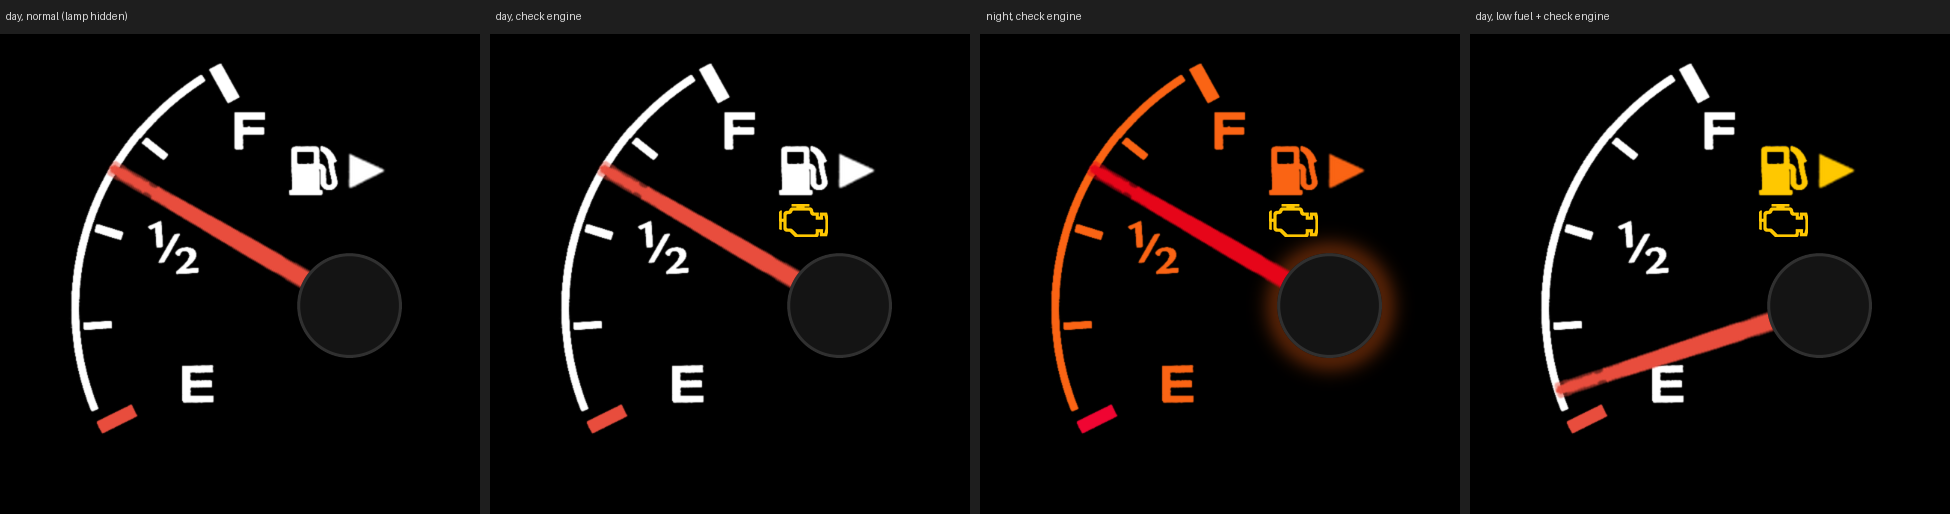
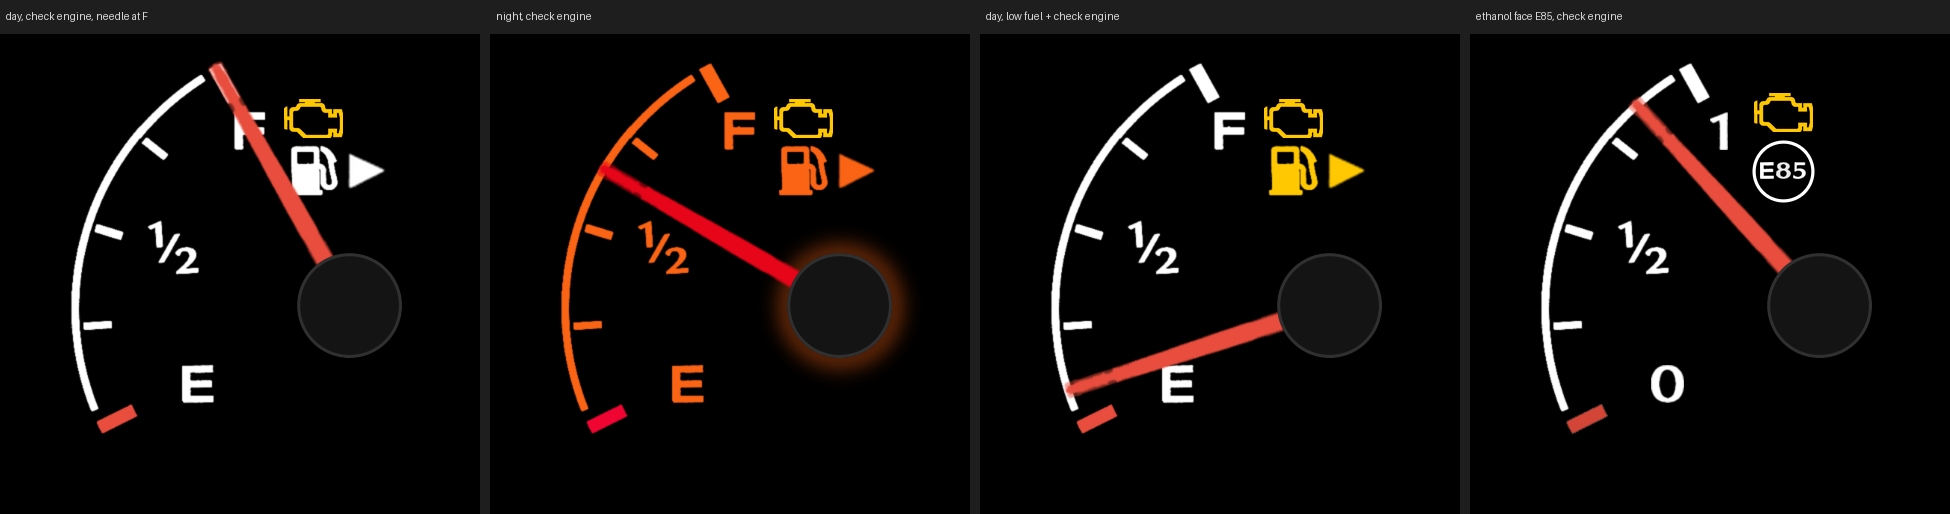
CEL lamp above the pump at 120 % (fuel + ethanol faces); outlined error flash; buzzer confirmed tone-driven

diff --git a/tools/alt-faces/cel_icon.py b/tools/alt-faces/cel_icon.py
@@ -1,7 +1,8 @@
 """Check-engine lamp for the fuel gauge (owner 2026-10-18, placeholder art until the owner supplies the final symbol).
 Symbol: ISO 2575 F.01 'Engine' (application of ISO 7000-0640), traced from ISO 2575:2010 p.28 at 1200 dpi
-(art/icons/engine_iso7000-0640_src.png). Placed directly under the fuel-pump icon, same width as the pump, same 8 px
-gap as the pump-to-arrow gap. Hidden unless the Haltech CEL flag is on (0x3E4 byte 7 bit 7); lit in the low-fuel yellow.
+(art/icons/engine_iso7000-0640_src.png). Rev 2026-10-18b (owner): moved ABOVE the pump icon
+(below it the needle swept over it near F) and scaled 120 % (59 px wide = 1.2 x pump width); 8 px gap as before. On the
+ethanol face it sits 8 px above the ethanol ring (the ring top is 6 px higher than the pump top). Hidden unless the Haltech CEL flag is on (0x3E4 byte 7 bit 7); lit in the low-fuel yellow.
 Outputs art/faces/cel_icon_A8.png (480x480 alpha layer), art/faces/cel_icon.json, art/preview/fuel_cel_preview.png."""
 import sys, json, numpy as np
 from PIL import Image, ImageDraw
@@ -11,14 +12,31 @@ x0,y0,x1,y1=I['pump_bbox_px']; gap=round(I['gap_px'])
 from PIL import ImageFilter
 src=Image.open('art/icons/engine_iso7000-0640_src.png').convert('L')
 src=src.filter(ImageFilter.MaxFilter(25))   # stroke ~40 -> ~64 src px, about 3 px at 49 px wide (closer to the pump glyph weight)
-w=x1-x0; h=round(w*src.height/src.width)
+w=round(1.2*(x1-x0)); h=round(w*src.height/src.width)
 icon=src.resize((w*4,h*4),Image.LANCZOS).resize((w,h),Image.LANCZOS)
-cx=(x0+x1)/2; ix=round(cx-w/2); iy=y1+gap
+cx=(x0+x1)/2; ix=round(cx-w/2); iy=y0-gap-h
+E=json.load(open('art/faces/fuel_ethanol.json')); ring_top=E['ring_center_px'][1]-E['ring_radius_px']; iy_e=ring_top-gap-h
 L=Image.new('L',(480,480),0); L.paste(icon,(ix,iy)); L.save('art/faces/cel_icon_A8.png')
-json.dump(dict(bbox_px=[ix,iy,ix+w,iy+h],symbol='ISO 2575 F.01 Engine (ISO 7000-0640), placeholder until owner art',
+LE=Image.new('L',(480,480),0); LE.paste(icon,(ix,iy_e)); LE.save('art/faces/cel_icon_ethanol_A8.png')
+# checks: inside the visible hole, and clear of the needle over its whole sweep
+from shapely.geometry import Polygon, box as sbox, LineString
+FJ=json.load(open('art/faces/faces.json'))['gauges']; g=FJ['fuel']; S=json.load(open('hardware/overlay/overlay_mm.json'))['shapes']
+hole=Polygon([((x-g['image_center_mm'][0])*g['px_per_mm']+240,240-(y-g['image_center_mm'][1])*g['px_per_mm']) for x,y in S['fuel']])
+import math
+piv=g['pivot_px']; tipR=math.hypot(224.5-piv[0],49.5-piv[1])
+def needle_clear(b):
+    best=1e9
+    for a in np.linspace(E['needle_angle_E_deg'],E['needle_angle_F_deg'],400):
+        r=math.radians(a); seg=LineString([piv,(piv[0]+tipR*math.sin(r),piv[1]-tipR*math.cos(r))]); best=min(best,seg.distance(b))
+    return best
+chk={}
+for nm,yy in (('fuel',iy),('ethanol',iy_e)):
+    b=sbox(ix,yy,ix+w,yy+h); chk[nm]=dict(bbox_px=[ix,yy,ix+w,yy+h],inside_hole=bool(hole.contains(b)),hole_margin_px=round(hole.exterior.distance(b),1),needle_centerline_clearance_px=round(needle_clear(b),1))
+print(chk)
+json.dump(dict(bbox_px=[ix,iy,ix+w,iy+h],bbox_px_ethanol=[ix,iy_e,ix+w,iy_e+h],scale_vs_pump_width=1.2,position='above the pump (fuel face) / above the ethanol ring, 8 px gap',checks=chk,layer_ethanol='cel_icon_ethanol_A8.png',symbol='ISO 2575 F.01 Engine (ISO 7000-0640), placeholder until owner art',
   color_rgb=list(map(int,Y)),visible='only while Haltech 0x3E4 byte 7 bit 7 (Check Engine Light) = 1; hub relays it in 0x6A3 byte 2 bit 1',
-  faces='fuel level face; same position on the ethanol face (proposed)',layer='cel_icon_A8.png',
-  note='needle passes over the icon between about 7/8 and F; needle is drawn on top'),open('art/faces/cel_icon.json','w'),indent=1)
+  faces='fuel level face and ethanol face',layer='cel_icon_A8.png',
+  note='rev b: above the pump, clear of the needle sweep'),open('art/faces/cel_icon.json','w'),indent=1)
 pump=np.asarray(Image.open('art/faces/fuel_icon_A8.png')).astype(float)/255
 cel=np.asarray(L).astype(float)/255
 base=np.asarray(Image.open('art/faces/fuel_base_480.png').convert('RGB'))
@@ -36,7 +54,14 @@ def render(night,low,celon,ang):
     cv=cv.rotate(-ang,resample=Image.BICUBIC,center=(W/2,W/2)); cx_,cy_=g['pivot_px']; im.alpha_composite(cv,(int(cx_-W/2),int(cy_-W/2)))
     hub=Image.open(f"art/needles/{n['hub_png']}").convert('RGBA'); im.alpha_composite(hub,(int(cx_-hub.width/2),int(cy_-hub.height/2)))
     return im.convert('RGB')
-cases=[('day, normal (lamp hidden)',False,False,False,-60),('day, check engine',False,False,True,-60),('night, check engine',True,False,True,-60),('day, low fuel + check engine',False,True,True,-108)]
+cases=[('day, check engine, needle at F',False,False,True,E['needle_angle_F_deg']),('night, check engine',True,False,True,-60),('day, low fuel + check engine',False,True,True,-108)]
+import importlib.util, io, contextlib
+spec=importlib.util.spec_from_file_location('eth','tools/alt-faces/ethanol_face.py'); eth=importlib.util.module_from_spec(spec)
+with contextlib.redirect_stdout(io.StringIO()): spec.loader.exec_module(eth)
+def render_eth(night):
+    im=np.asarray(eth.render(85,night)).astype(float); ce=np.asarray(LE).astype(float)/255
+    return Image.fromarray(np.clip(im*(1-ce[...,None])+ce[...,None]*Y,0,255).astype(np.uint8))
 out=Image.new('RGB',(4*490-10,480+34),(30,30,30)); d=ImageDraw.Draw(out)
 for i,(t,nt,lo,ce,a) in enumerate(cases): out.paste(render(nt,lo,ce,a),(i*490,34)); d.text((i*490+6,10),t,fill=(220,220,220))
+out.paste(render_eth(False),(3*490,34)); d.text((3*490+6,10),'ethanol face E85, check engine',fill=(220,220,220))
 out.save('art/preview/fuel_cel_preview.png'); print('icon bbox',ix,iy,ix+w,iy+h)

diff --git a/tools/alt-faces/alert_flash_mock.py b/tools/alt-faces/alert_flash_mock.py
@@ -1,21 +1,34 @@
-"""Mock of the error flash (owner 2026-10-18): the gauge background turns red during the 'on' half of each 3 Hz
-flash, day or night. Approximation for review: dark background pixels (tach, night data face) or white background
-pixels (day data face) are replaced with ALERT_FLASH red; printing, needles and values are left as they are."""
-import numpy as np
+"""Mock of the error flash (owner 2026-10-18; rev b: needles and ticks outlined). During the 'on' half of each 3 Hz
+flash the gauge background turns ALERT_FLASH red, day or night, EXCEPT a black keep-out outline OUTLINE_PX wide around
+every printed element (ticks, numerals, legends, readouts) and around the needle and hub, so red ticks, red needles
+and night-orange print stay readable against the red.
+Firmware equivalent: each gauge keeps a pre-rendered 'flash' copy of its static face (red background with the black
+keep-out already baked in) and swaps it in on the red phase; the needle sprite is drawn with a black outline
+(OUTLINE_PX) on that phase. Approximation here: foreground = any pixel brighter than the dark background (or darker
+than the white day data-face background), dilated by OUTLINE_PX."""
+import json, numpy as np, scipy.ndimage as nd
 from PIL import Image, ImageDraw
-RED=np.array([255,0,0],float)
-import scipy.ndimage as nd
+RED=np.array([255,0,0],float); OUTLINE_PX=3
 def window(size=480):
     a=np.asarray(Image.open('art/preview/speedo_data_800_day.png').convert('L').resize((size,size))); return nd.binary_fill_holes(a>200)
-def flash(path,day_white_bg=False,size=480,win=False):
+def disk(r):
+    y,x=np.mgrid[-r:r+1,-r:r+1]; return x*x+y*y<=r*r
+def flash(path,day_white_bg=False,size=480,win=False,hub=None,outline=True):
     a=np.asarray(Image.open(path).convert('RGB').resize((size,size),Image.LANCZOS)).astype(float)
-    b=np.clip((a.min(2)-190)/60,0,1) if day_white_bg else np.clip(1-a.max(2)/55,0,1)
-    if win: b=b*window(size)
-    return Image.fromarray(np.clip(a*(1-b[...,None])+RED*b[...,None],0,255).astype(np.uint8))
+    if day_white_bg: bg=np.clip((a.min(2)-190)/60,0,1); fg=a.min(2)<150
+    else: bg=np.clip(1-a.max(2)/55,0,1); fg=a.max(2)>=55
+    if hub is not None:
+        yy,xx=np.mgrid[:size,:size]; hm=np.hypot(xx-hub[0],yy-hub[1])<=hub[2]; fg|=hm; bg[hm]=0
+    if outline: bg=bg*~nd.binary_dilation(fg,disk(OUTLINE_PX))
+    if win: bg=bg*window(size)
+    return Image.fromarray(np.clip(a*(1-bg[...,None])+RED*bg[...,None],0,255).astype(np.uint8))
+g=json.load(open('art/faces/faces.json'))['gauges']['tach']; HUB=(g['pivot_px'][0],g['pivot_px'][1],g['hub_radius_mm']*g['px_per_mm']+1)
 P='art/preview/'
-cases=[('tach day, off phase',Image.open(P+'tach_480_with_needle.png')),('tach day, RED phase',flash(P+'tach_480_with_needle.png')),
-       ('tach night, RED phase',flash(P+'tach_480_night.png')),('data face day, RED phase',flash(P+'speedo_data_800_day.png',True)),
-       ('data face night, RED phase',flash(P+'speedo_data_800_night.png',win=True))]
+cases=[('tach day, RED phase, no outline (rev a)',flash(P+'tach_480_with_needle.png',hub=HUB,outline=False)),
+       ('tach day, RED phase, outlined',flash(P+'tach_480_with_needle.png',hub=HUB)),
+       ('tach night, RED phase, outlined',flash(P+'tach_480_night.png',hub=HUB)),
+       ('data face day, RED phase (black on red, no outline needed)',flash(P+'speedo_data_800_day.png',True,outline=False)),
+       ('data face night, RED phase, outlined',flash(P+'speedo_data_800_night.png',win=True))]
 out=Image.new('RGB',(5*490-10,514),(30,30,30)); d=ImageDraw.Draw(out)
 for i,(t,im) in enumerate(cases): out.paste(im.convert('RGB').resize((480,480)),(i*490,34)); d.text((i*490+6,10),t,fill=(220,220,220))
 out.save(P+'alert_flash_preview.png'); print('ok')

diff --git a/firmware/hub/alerts_config.h b/firmware/hub/alerts_config.h
@@ -48,6 +48,9 @@ static const uint8_t ALERT_RULE_COUNT = sizeof(ALERT_RULES) / sizeof(ALERT_RULES
 #define ALERT_FLASH_R 255                  // background colour while "on" (day and night faces alike)
 #define ALERT_FLASH_G 0
 #define ALERT_FLASH_B 0
+#define ALERT_OUTLINE_PX          3        // owner 2026-10-18: black keep-out outline around needles, ticks and print
+                                           // on the red phase (480 px faces; scale with the panel, about 5 px at 800)
+#define ALERT_OUTLINE_DAY_DATA    false    // day data face is black on red already; no outline needed
 #define ENGINE_RUNNING_RPM        500
 #define CRANK_HOLDOFF_MS          2000
 #define CHANNEL_STALE_MS          1000     // a channel with no fresh frame this long cannot raise an alert
@@ -59,7 +62,8 @@ static const uint8_t ALERT_RULE_COUNT = sizeof(ALERT_RULES) / sizeof(ALERT_RULES
 
 // ---- Buzzer: Star TMX-12S magnetic transducer, low-side NPN on BUZZER_PIN (see docs/bench/POC-WIRING.md)
 #define BUZZER_PIN                6
-#define BUZZER_SELF_DRIVE         false    // true if bench test shows it beeps on plain DC (then drive on/off only)
+#define BUZZER_SELF_DRIVE         false    // owner bench test 2026-10-18: TMX-12S only CLICKS on 12 V DC, so it has no
+                                           // oscillator and must be driven with a tone (keep false)
 #define BUZZER_FREQ_HZ            1000     // drive tone; sweep 800-3000 Hz on the bench and keep the loudest
 #define BUZZER_VOLUME_PCT         100      // 100 = maximum (50 % PWM duty); lower = quieter
 #define BUZZ_ON_ALERT             true     // buzzes with the red flash pattern

diff --git a/docs/PLAN.md b/docs/PLAN.md
@@ -49,7 +49,8 @@ Status: Phase 0 (discovery). Prepared 2026-10-12. Rev 2: decisions log added (se
 | 2026-10-18 | Overlay thickness (owner): 3 mm at the frame mounting flange; the interior may differ if a display needs it. Plate set to 3.0 mm everywhere for now (`overlay_params.json`, `overlay.scad`, STL/SVG/DXF regenerated); local relief inside the flange inner edge is a later option. |
 | 2026-10-18 | Error alerts (owner spec): the affected gauge's background flashes red, day or night, 3 times a second for 10 s; if the error persists after 10 s, repeat; stops at key-off or when the error clears; if the gauge is on another face, switch to the right one. Rules (owner): tach > 7999 rpm; coolant > 250 F; oil temp > 300 F; volts < 11.0 or > 16.0; AFR > 14.0 above 3000 rpm; oil pressure < 15 psi. All editable or disableable in `firmware/hub/alerts_config.h`; logic `firmware/hub/alerts.h`, host test `firmware/hub/test/test_alerts.cpp` (17 checks pass). The hub evaluates centrally, forces faces through 0x6A1 and sends 0x6A3 with one shared flash phase. Routing: rpm -> tach (no switch, visible on both faces); coolant -> temp coolant face; oil temp -> temp oil face; volts, AFR, oil pressure -> speedo data face. MY ADDITIONS, to confirm (each can be zeroed in the table): oil pressure only after the engine has run 3 s above 500 rpm (otherwise it alarms at every key-on); voltage ignored while cranking and 2 s after; AFR ignored while the Haltech reports Decel Cut Active (0x3E4 byte 1 bit 4); debounce 0.3-1 s on everything except rpm; a burst always finishes its 10 s once started; coolant outranks oil temp on the shared temp gauge; the gauge returns to its previous face afterwards; keypad/knob face changes on a flashing gauge are ignored; the offending value moves to the top slot of the data face; a channel with no frame for 1 s cannot alarm. Mock: `art/preview/alert_flash_preview.png` shows the red tach needle, the red 6500+ ticks and night orange print losing contrast on red. |
 | 2026-10-18 | Buzzer (owner part Star TMX-12S, a magnetic transducer, not a piezo): hub GPIO6 LEDC PWM -> 1 kohm -> NPN low side, 1N4148 across the coil, 12 V supply. Error: buzzes with the red flash pattern; low-fuel lamp on: two-note chime; check-engine flag rising edge: one 1 s buzz. Volume (default maximum = 50 % duty), tone and patterns in `alerts_config.h`. Wiring in `docs/bench/POC-WIRING.md` and `poc_wiring.png`. |
-| 2026-10-18 | Check-engine lamp (owner; final art to come): placeholder ISO 2575 F.01 Engine symbol (ISO 7000-0640; owner called it the ANSI service engine icon), directly under the fuel pump icon, same width (49 px), 8 px gap; hidden unless the Haltech CEL flag (0x3E4 byte 7 bit 7) is on; lit low-fuel yellow 255,200,0. Haltech's CEL shows when trouble codes are present and can stay lit while codes are stored, so the 1 s buzz can recur at key-on until codes are cleared. Files: `tools/alt-faces/cel_icon.py`, `art/faces/cel_icon_A8.png`, `cel_icon.json`, `art/preview/fuel_cel_preview.png`. |
+| 2026-10-18 | Check-engine lamp (owner; final art to come): placeholder ISO 2575 F.01 Engine symbol (ISO 7000-0640; owner called it the ANSI service engine icon). Rev b (owner): moved ABOVE the pump icon, because below it the needle swept over it near F, and scaled 120 % (59 x 39 px), 8 px gap (fuel face bbox 284,65-343,104; ethanol face 8 px above the ring, 284,59-343,98); inside the visible hole on both (margin 18.8 / 14.5 px) and clear of the needle over the whole sweep (25 / 28 px from the needle centerline); hidden unless the Haltech CEL flag (0x3E4 byte 7 bit 7) is on; lit low-fuel yellow 255,200,0. Haltech's CEL shows when trouble codes are present and can stay lit while codes are stored, so the 1 s buzz can recur at key-on until codes are cleared. Files: `tools/alt-faces/cel_icon.py`, `art/faces/cel_icon_A8.png`, `cel_icon.json`, `art/preview/fuel_cel_preview.png`. |
+| 2026-10-18 | Error flash legibility (owner): on the red phase, needles, ticks and all printing get a black keep-out outline (ALERT_OUTLINE_PX = 3 px on the 480 px faces), so the red 6500+ ticks, the red needles and the night orange print stay readable. Firmware: a pre-rendered flash copy of each static face (red background with the outline baked in) swaps in on the red phase, and the needle sprite gets a black outline on that phase. The day data face is black on red already and is not outlined. Buzzer bench test (owner): the TMX-12S only clicks on 12 V DC, which confirms an externally driven transducer; it is driven with a PWM tone (BUZZER_SELF_DRIVE false); next, sweep the frequency for the loudest tone. Mock: `art/preview/alert_flash_preview.png`. |
 
 ### 0.1 Speed source options (in preference order)
 CHOSEN 2026-10-16: option 1, with distance from Haltech Trip Meter 1 (0x6F6) rather than integrating speed.

diff --git a/docs/bench/POC-WIRING.md b/docs/bench/POC-WIRING.md
@@ -33,7 +33,7 @@ The TMX series is Star's magnetic transducer line ("low frequency driving type, 
 | buzzer (+) | +12 V bench supply |
 | 1N4148 diode | across the buzzer, stripe (cathode) to +12 V; it catches the coil's turn-off spike |
 
-Before wiring: measure the coil with a meter (expect tens to a few hundred ohm; current = 12 V / R must stay under about 300 mA for a 2N2222,; small 12 V magnetic buzzers typically draw tens of mA, but measure rather than assume). Then touch it to 12 V through the transistor with GPIO6 held high: a click only means it needs a tone (leave `BUZZER_SELF_DRIVE false`); a steady beep means it has its own oscillator (set it to true). Sweep `BUZZER_FREQ_HZ` 800-3000 Hz and keep the loudest. Volume: `BUZZER_VOLUME_PCT` 100 = 50 % square-wave duty, the loudest a coil can be driven at a fixed voltage. Settings: `firmware/hub/alerts_config.h`.
+Before wiring: measure the coil with a meter (expect tens to a few hundred ohm; current = 12 V / R must stay under about 300 mA for a 2N2222,; small 12 V magnetic buzzers typically draw tens of mA, but measure rather than assume). Owner bench result (2026-10-18): it clicks on 12 V DC, so it has no internal oscillator and needs a tone; `BUZZER_SELF_DRIVE` stays false. Sweep `BUZZER_FREQ_HZ` 800-3000 Hz and keep the loudest. Volume: `BUZZER_VOLUME_PCT` 100 = 50 % square-wave duty, the loudest a coil can be driven at a fixed voltage. Settings: `firmware/hub/alerts_config.h`.
 
 ## Tach: Waveshare ESP32-S3-LCD-2.8C
 
